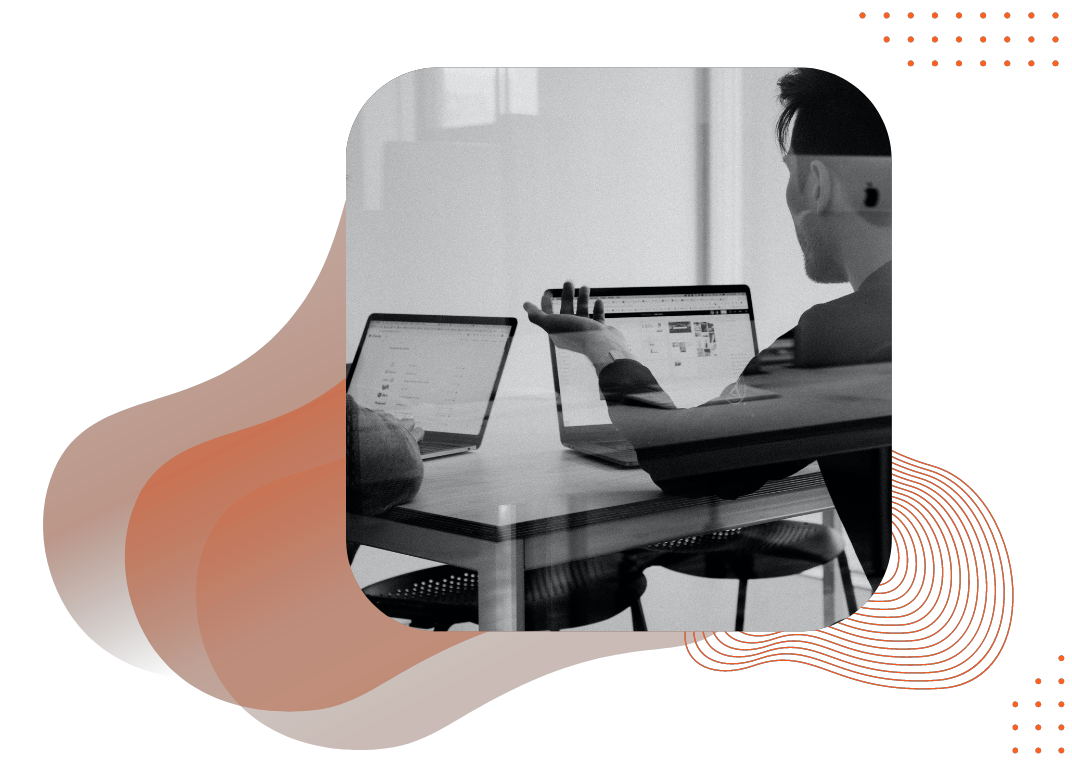
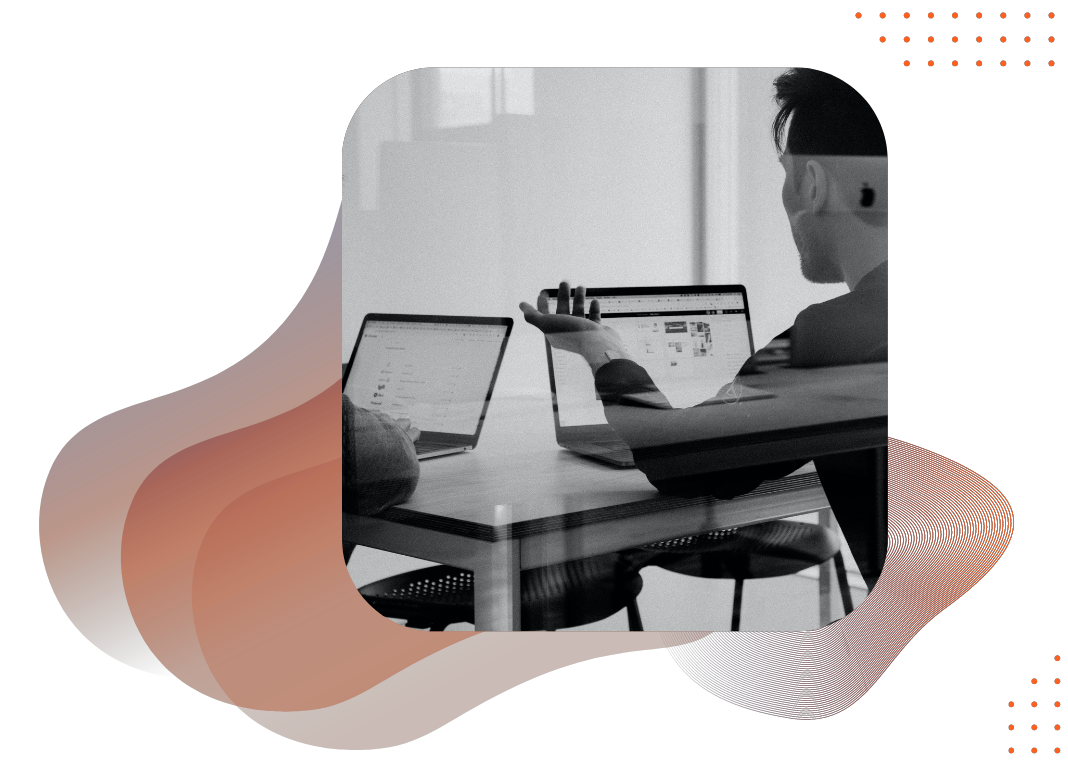
home cover picture added

diff --git a/src/components/Home/Home_Section.js b/src/components/Home/Home_Section.js
@@ -14,6 +14,8 @@ import { BiSearch } from "react-icons/bi";
 import Teams from "./Team";
 import { useRouter } from "next/router";
 import bgGrad from "../../images/bg-grad.png";
+import bgleft from "../../images/left-banner1.png";
+import Image from "next/image";
 
 export default function Home_Section() {
   const router = useRouter();
@@ -33,8 +35,15 @@ export default function Home_Section() {
         <div className="flex justify-center">
           <div className="relative h-[70vh] w-[100vw] mt-[10%] flex justify-center items-center">
             <div className="flex flex-row w-[100vw] h-[80vh]  gap-20 justify-center relative ">
-              <div className="flex flex-col w-1/2 items-center justify-center text-white">
-                <div className="text-2xl leading-[50px] font-montserrat text-[35px] font-extrabold text-white  w-[400px] flex justify-start h-[300px] ">
+              <div className="">
+                <Image
+                  src={bgleft}
+                  alt="left Background"
+                  className="object-contain absolute z-10 left-0 w-[800px]"
+                />
+              </div>
+              <div className="flex flex-col w-1/2 items-center justify-center text-white relative">
+                <div className="text-2xl z-20 leading-[50px] font-montserrat text-[35px] font-extrabold text-white  w-[400px] flex justify-start h-[300px] ">
                   <Typewriter
                     options={{
                       strings: [
@@ -51,7 +60,7 @@ export default function Home_Section() {
                   />
                 </div>
 
-                <div className="bg-transparent flex items-center shadow-xl rounded-[40px] border-[2px] border-[#F15A24] w-[400px] h-[50px]">
+                <div className="bg-transparent z-20 flex items-center shadow-xl rounded-[40px] border-[2px] border-[#F15A24] w-[400px] h-[50px]">
                   <input
                     className="bg-transparent outline-none w-[348px] h-[50px] placeholder:text-[20px] placeholder:text-[#e4e4e4] font-montserrat px-5 text-[25px] text-[#ffffff]"
                     placeholder="Search..."
@@ -69,17 +78,12 @@ export default function Home_Section() {
               </div>
 
               <div className=" flex relative w-1/2 justify-center items-center xl2:hidden">
-                <div
-                  className="elementor-element elementor-element-0ef84c8 elementor-widget elementor-widget-image"
-                  data-id="0ef84c8"
-                  data-element_type="widget"
-                  data-widget_type="image.default"
-                >
+                <div className="">
                   <div className="elementor-widget-container">
                     <img
                       src={bgCover.src}
                       alt="Background"
-                      className="object-contain w-[900px]"
+                      className="object-contain w-[1000px]"
                     />
                   </div>
                 </div>
